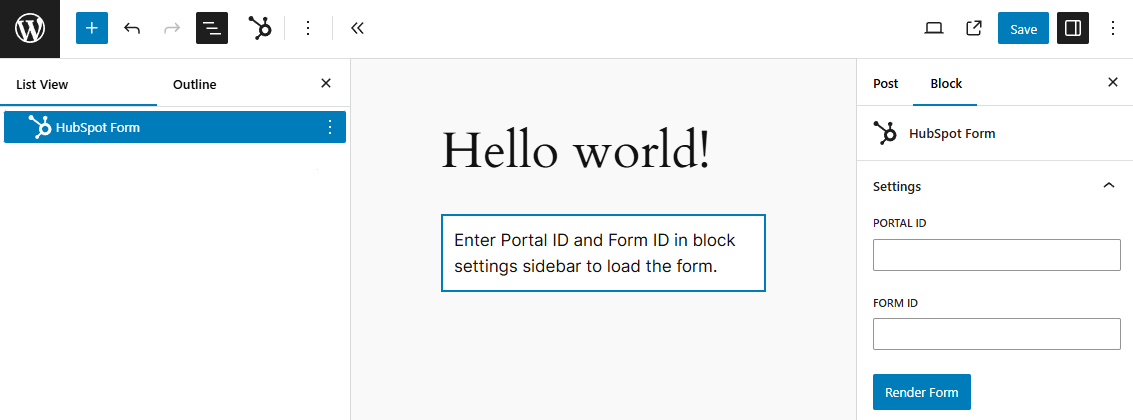
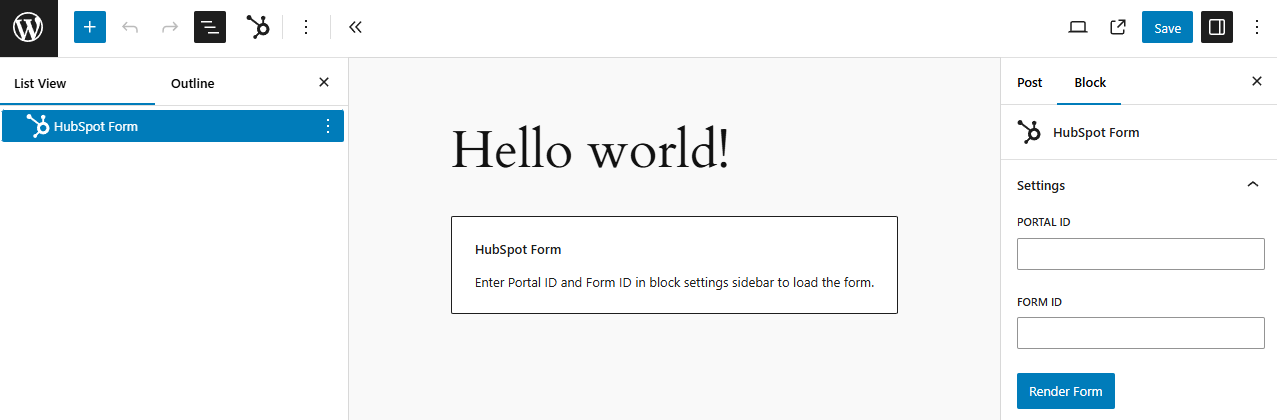
v0.1.1

diff --git a/block.js b/block.js
@@ -54,7 +54,7 @@
                                             window.hbspt.forms.create(formConfig);
                                             document.getElementById(targetId).className = '';
                                         } catch(error) {
-                                            document.getElementById(targetId).className = 'piotrpress-hubspot-form';
+                                            document.getElementById(targetId).className = 'components-placeholder';
                                             document.getElementById(targetId).innerHTML = __('Error while loading HubSpot form.', 'piotrpress-hubspot-form');
                                         }
                                     } else console.log(__('HubSpot forms library is not loaded.', 'piotrpress-hubspot-form'));
@@ -68,9 +68,18 @@
                     'div',
                     {
                         id: targetId,
-                        className: 'piotrpress-hubspot-form'
+                        className: 'components-placeholder'
                     },
-                    __('Enter Portal ID and Form ID in block settings sidebar to load the form.', 'piotrpress-hubspot-form')
+                    createElement(
+                        'div',
+                        { className: 'components-placeholder__label' },
+                        __('HubSpot Form', 'piotrpress-hubspot-form')
+                    ),
+                    createElement(
+                        'div',
+                        { className: 'components-placeholder__fieldset' },
+                        __('Enter Portal ID and Form ID in block settings sidebar to load the form.', 'piotrpress-hubspot-form')
+                    )
                 )
             );
         },

diff --git a/plugin.php b/plugin.php
@@ -4,8 +4,8 @@
  * Plugin Name: HubSpot Form
  * Plugin URI: https://github.com/PiotrPress/wordpress-hubspot-form
  * Description: This WordPress plugin adds a HubSpot Form block which allows you to embed HubSpot forms.
- * Version: 0.1.0
- * Requires at least: 6.6
+ * Version: 0.1.1
+ * Requires at least: 6.0
  * Requires PHP: 7.4
  * Author: Piotr Niewiadomski
  * Author URI: https://piotr.press
@@ -19,7 +19,6 @@
 defined( 'ABSPATH' ) or exit;
 
 add_action( 'enqueue_block_editor_assets', function() {
-    wp_register_style( 'piotrpress-hubspot-form-block', plugins_url( 'block.css', __FILE__ ), [], null );
     wp_register_script( 'piotrpress-hubspot-form-block', plugins_url( 'block.js', __FILE__ ), [
         'piotrpress-hubspot-form',
         'wp-blocks',
@@ -32,7 +31,7 @@ add_action( 'init', function() {
     wp_register_script( 'piotrpress-hubspot-form', '//js.hsforms.net/forms/embed/v2.js', [], null );
     register_block_type( 'piotrpress/hubspot-form', [
         'api_version' => 3,
-        'version' => '0.1.0',
+        'version' => '0.1.1',
         'title' => __( 'HubSpot Form', 'piotrpress-hubspot-form' ),
         'category' => 'text',
         'attributes' => [
@@ -40,7 +39,6 @@ add_action( 'init', function() {
             'formId' => [ 'type' => 'string' ]
         ],
         'textdomain' => 'piotrpress-hubspot-form',
-        'editor_style_handles' => [ 'piotrpress-hubspot-form-block' ],
         'editor_script_handles' => [ 'piotrpress-hubspot-form-block' ],
         'script_handles' => [ 'piotrpress-hubspot-form' ]
     ] );

diff --git a/readme.md b/readme.md
@@ -25,7 +25,8 @@ add_action(
 
 ## Requirements
 
-PHP >= `7.4` version.
+* PHP >= `7.4` version.
+* WordPress >= `6.0` version.
 
 ## License
 
